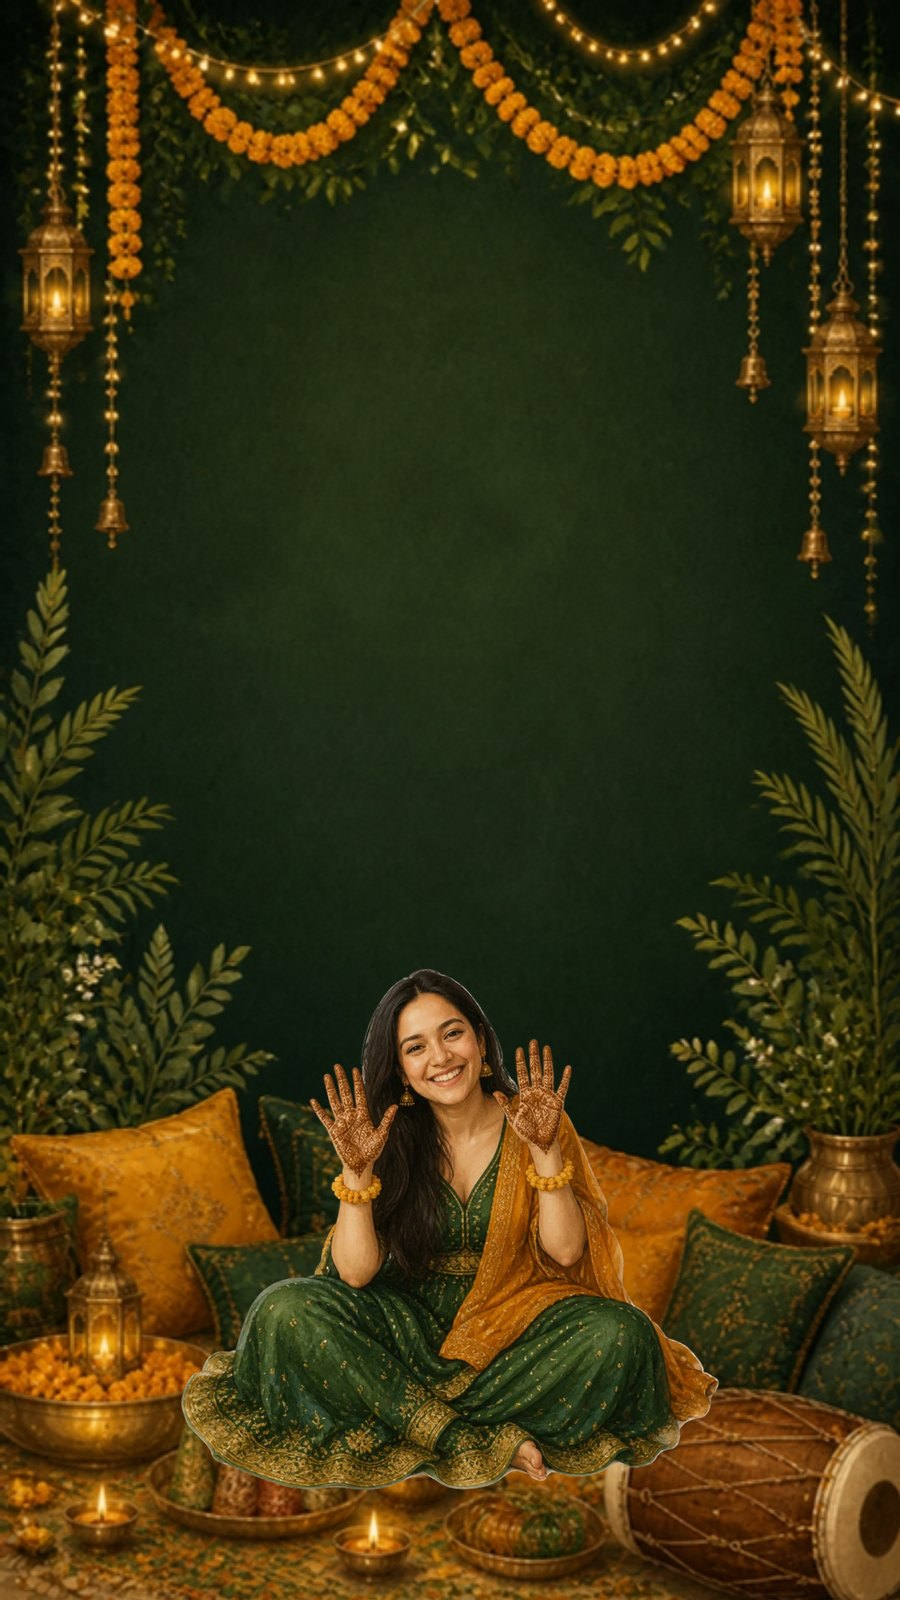
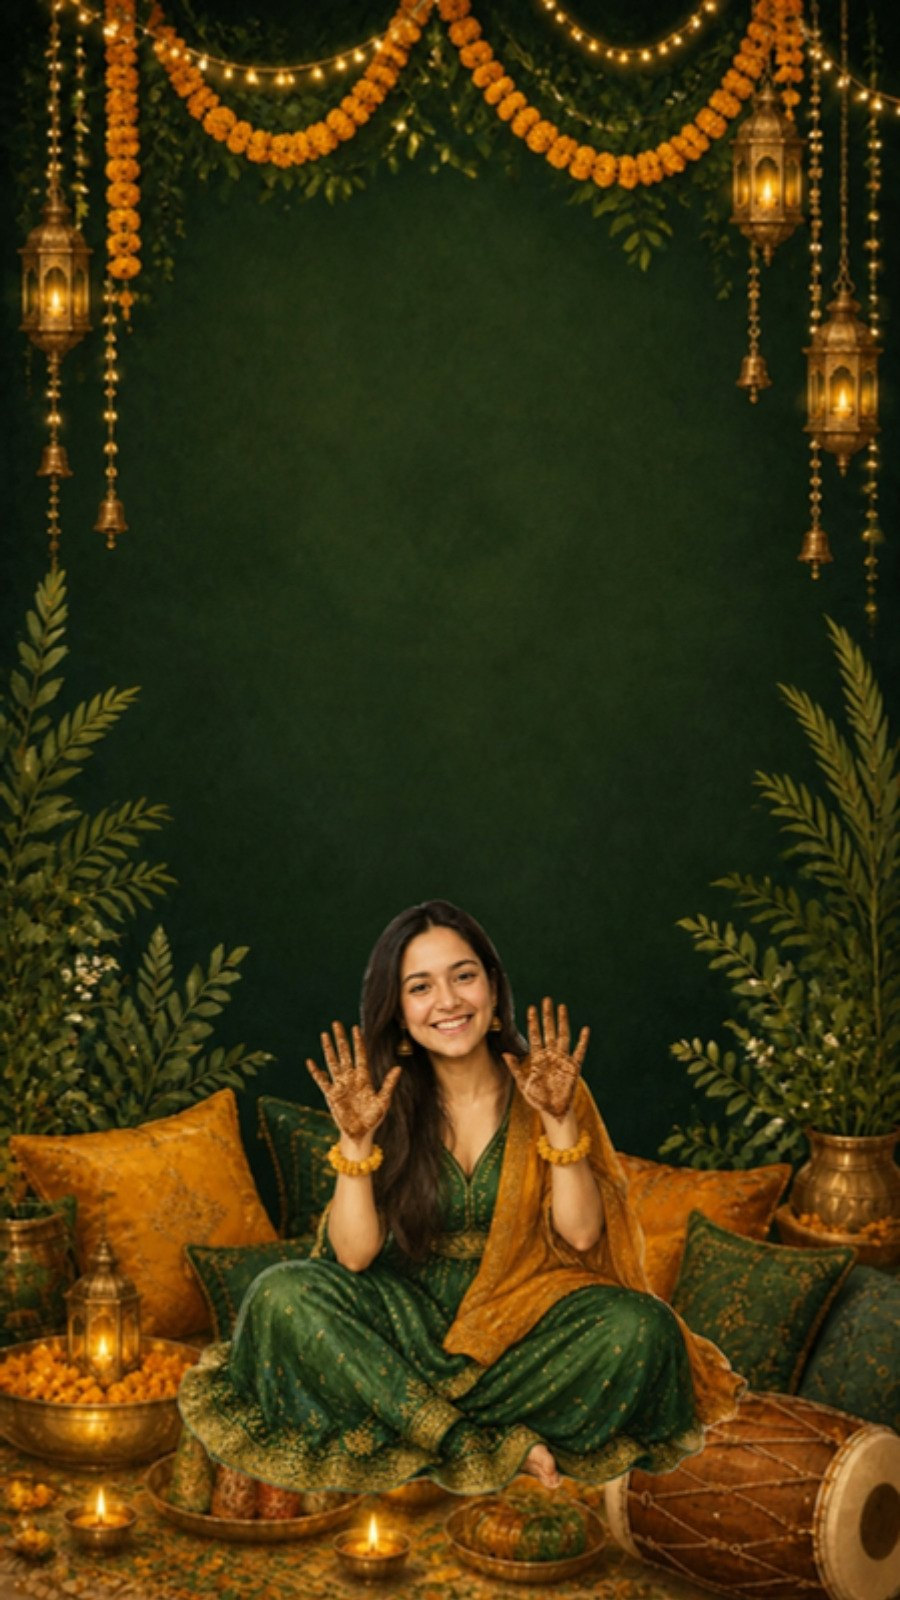
Repaint Himanshi in the cocktail and mehndi scenes to look more like her
Claude-Session: https://claude.ai/code/session_019B6NoVCTSqGoMKxvRqAEtT

diff --git a/bride-no-cocktail/index.html b/bride-no-cocktail/index.html
@@ -16,7 +16,7 @@
   <meta property="og:title" content="Himanshi &amp; Karan · Wedding Invitation">
   <meta property="og:description" content="You're invited. 29 Nov — 01 Dec 2026 · New Delhi · #KaranMani-fested">
   <meta property="og:url" content="https://himanshikapoor3099.github.io/wedding-invite/bride-no-cocktail/">
-  <meta property="og:image" content="https://himanshikapoor3099.github.io/wedding-invite/assets/share.jpg?v=14">
+  <meta property="og:image" content="https://himanshikapoor3099.github.io/wedding-invite/assets/share.jpg?v=15">
   <meta property="og:image:width" content="1200">
   <meta property="og:image:height" content="630">
   <meta name="twitter:card" content="summary_large_image">
@@ -25,9 +25,9 @@
   <link rel="preconnect" href="https://fonts.googleapis.com">
   <link rel="preconnect" href="https://fonts.gstatic.com" crossorigin>
   <link href="https://fonts.googleapis.com/css2?family=Cinzel:wght@400;500;600&family=Italianno&family=Jost:wght@300;400;500;600&family=Noto+Serif+Devanagari:wght@500&family=Noto+Serif+Gurmukhi:wght@500&family=Playfair+Display:ital,wght@0,400;0,500;1,400;1,500&display=swap" rel="stylesheet">
-  <link rel="stylesheet" href="css/main.css?v=14">
+  <link rel="stylesheet" href="css/main.css?v=15">
   <script>window.INVITE_VERSION = "bride-no-cocktail";</script>
-  <script src="js/content.js?v=14"></script>
+  <script src="js/content.js?v=15"></script>
 </head>
 <body class="locked">
 
@@ -127,6 +127,6 @@
     <span></span><span></span><span></span><span></span>
   </button>
 
-  <script src="js/page.js?v=14"></script>
+  <script src="js/page.js?v=15"></script>
 </body>
 </html>

diff --git a/bride-complete/index.html b/bride-complete/index.html
@@ -16,7 +16,7 @@
   <meta property="og:title" content="Himanshi &amp; Karan · Wedding Invitation">
   <meta property="og:description" content="You're invited. 28 Nov — 01 Dec 2026 · New Delhi · #KaranMani-fested">
   <meta property="og:url" content="https://himanshikapoor3099.github.io/wedding-invite/bride-complete/">
-  <meta property="og:image" content="https://himanshikapoor3099.github.io/wedding-invite/assets/share.jpg?v=14">
+  <meta property="og:image" content="https://himanshikapoor3099.github.io/wedding-invite/assets/share.jpg?v=15">
   <meta property="og:image:width" content="1200">
   <meta property="og:image:height" content="630">
   <meta name="twitter:card" content="summary_large_image">
@@ -25,9 +25,9 @@
   <link rel="preconnect" href="https://fonts.googleapis.com">
   <link rel="preconnect" href="https://fonts.gstatic.com" crossorigin>
   <link href="https://fonts.googleapis.com/css2?family=Cinzel:wght@400;500;600&family=Italianno&family=Jost:wght@300;400;500;600&family=Noto+Serif+Devanagari:wght@500&family=Noto+Serif+Gurmukhi:wght@500&family=Playfair+Display:ital,wght@0,400;0,500;1,400;1,500&display=swap" rel="stylesheet">
-  <link rel="stylesheet" href="css/main.css?v=14">
+  <link rel="stylesheet" href="css/main.css?v=15">
   <script>window.INVITE_VERSION = "bride-complete";</script>
-  <script src="js/content.js?v=14"></script>
+  <script src="js/content.js?v=15"></script>
 </head>
 <body class="locked">
 
@@ -127,6 +127,6 @@
     <span></span><span></span><span></span><span></span>
   </button>
 
-  <script src="js/page.js?v=14"></script>
+  <script src="js/page.js?v=15"></script>
 </body>
 </html>

diff --git a/bride-wedding/index.html b/bride-wedding/index.html
@@ -16,7 +16,7 @@
   <meta property="og:title" content="Himanshi &amp; Karan · Wedding Invitation">
   <meta property="og:description" content="You're invited. 01 Dec 2026 · New Delhi · #KaranMani-fested">
   <meta property="og:url" content="https://himanshikapoor3099.github.io/wedding-invite/bride-wedding/">
-  <meta property="og:image" content="https://himanshikapoor3099.github.io/wedding-invite/assets/share.jpg?v=14">
+  <meta property="og:image" content="https://himanshikapoor3099.github.io/wedding-invite/assets/share.jpg?v=15">
   <meta property="og:image:width" content="1200">
   <meta property="og:image:height" content="630">
   <meta name="twitter:card" content="summary_large_image">
@@ -25,9 +25,9 @@
   <link rel="preconnect" href="https://fonts.googleapis.com">
   <link rel="preconnect" href="https://fonts.gstatic.com" crossorigin>
   <link href="https://fonts.googleapis.com/css2?family=Cinzel:wght@400;500;600&family=Italianno&family=Jost:wght@300;400;500;600&family=Noto+Serif+Devanagari:wght@500&family=Noto+Serif+Gurmukhi:wght@500&family=Playfair+Display:ital,wght@0,400;0,500;1,400;1,500&display=swap" rel="stylesheet">
-  <link rel="stylesheet" href="css/main.css?v=14">
+  <link rel="stylesheet" href="css/main.css?v=15">
   <script>window.INVITE_VERSION = "bride-wedding";</script>
-  <script src="js/content.js?v=14"></script>
+  <script src="js/content.js?v=15"></script>
 </head>
 <body class="locked">
 
@@ -127,6 +127,6 @@
     <span></span><span></span><span></span><span></span>
   </button>
 
-  <script src="js/page.js?v=14"></script>
+  <script src="js/page.js?v=15"></script>
 </body>
 </html>

diff --git a/index.html b/index.html
@@ -14,7 +14,7 @@
   <meta property="og:title" content="Himanshi &amp; Karan · Wedding Invitation">
   <meta property="og:description" content="You're invited. 28 Nov — 01 Dec 2026 · New Delhi · #KaranMani-fested">
   <meta property="og:url" content="https://himanshikapoor3099.github.io/wedding-invite/">
-  <meta property="og:image" content="https://himanshikapoor3099.github.io/wedding-invite/assets/share.jpg?v=14">
+  <meta property="og:image" content="https://himanshikapoor3099.github.io/wedding-invite/assets/share.jpg?v=15">
   <meta property="og:image:width" content="1200">
   <meta property="og:image:height" content="630">
   <meta name="twitter:card" content="summary_large_image">
@@ -23,8 +23,8 @@
   <link rel="preconnect" href="https://fonts.googleapis.com">
   <link rel="preconnect" href="https://fonts.gstatic.com" crossorigin>
   <link href="https://fonts.googleapis.com/css2?family=Cinzel:wght@400;500;600&family=Italianno&family=Jost:wght@300;400;500;600&family=Noto+Serif+Devanagari:wght@500&family=Noto+Serif+Gurmukhi:wght@500&family=Playfair+Display:ital,wght@0,400;0,500;1,400;1,500&display=swap" rel="stylesheet">
-  <link rel="stylesheet" href="css/main.css?v=14">
-  <script src="js/content.js?v=14"></script>
+  <link rel="stylesheet" href="css/main.css?v=15">
+  <script src="js/content.js?v=15"></script>
 </head>
 <body class="locked">
 
@@ -124,6 +124,6 @@
     <span></span><span></span><span></span><span></span>
   </button>
 
-  <script src="js/page.js?v=14"></script>
+  <script src="js/page.js?v=15"></script>
 </body>
 </html>
